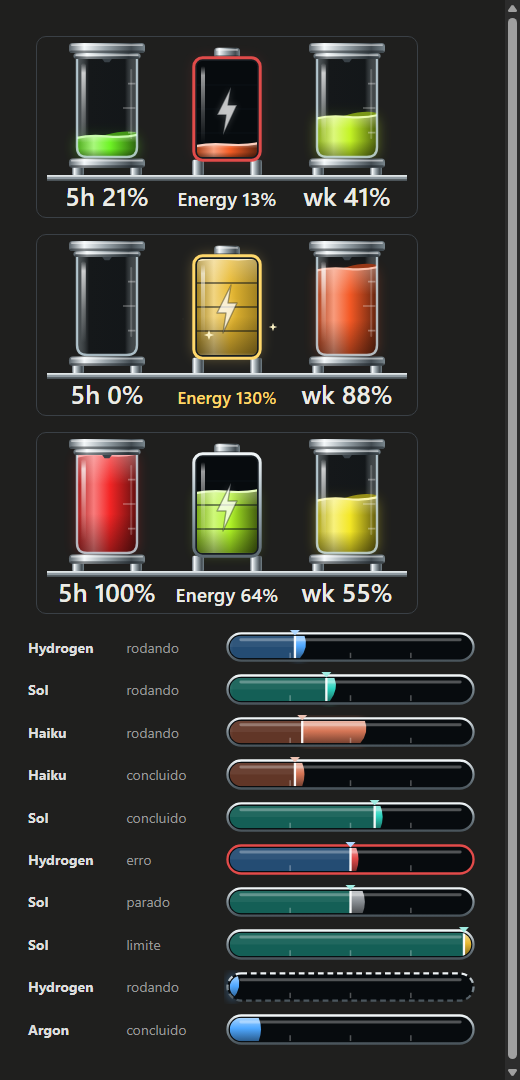
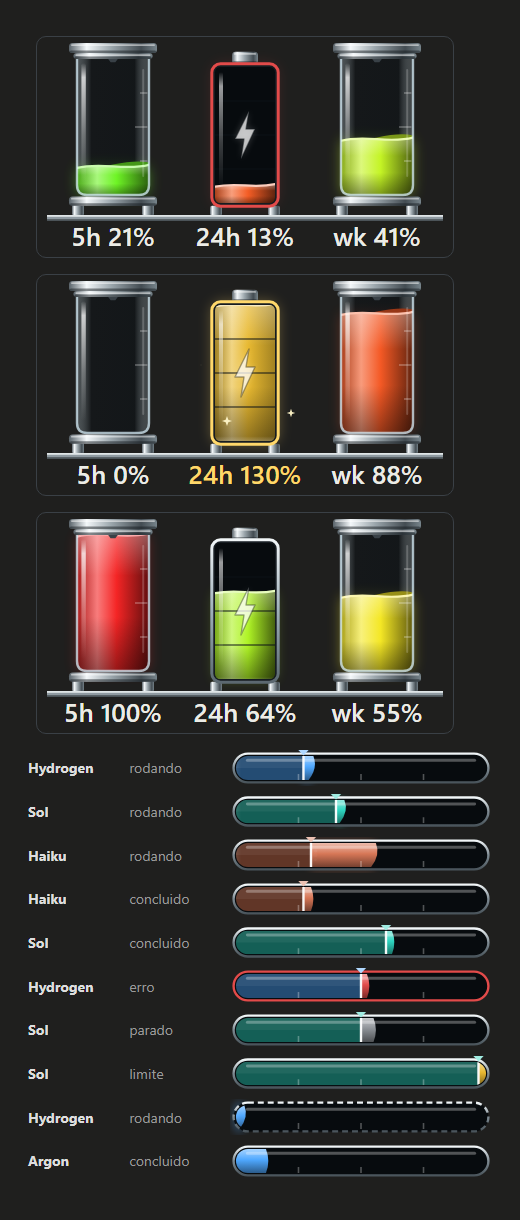
funmeter 0.8.3: layout as in the mock-up (mascot beside the agent rows, wider flasks, equal buttons)

diff --git a/plugins/funmeter/hooks/register.tsx b/plugins/funmeter/hooks/register.tsx
@@ -885,9 +885,9 @@ const VERDE_AGUA = '#2DD4BF'
 const COR_PROVEDOR = { Claude: LARANJA, Gemini: AZUL, Codex: VERDE_AGUA } as const
 
 // Os frascos dos limites do Claude (5h e semana) e a bateria do dia: mesmo tamanho, mesmo vidro e mesmo metal.
-const VT_W = 60
-const VT_H = 84
-const PRATELEIRA = 66 // onde os pés pousam
+const VT_W = 66
+const VT_H = 104
+const PRATELEIRA = 86 // onde os pés pousam
 
 // A cor do gel anda com o uso: verde vazio, passa pelo amarelo e pelo laranja e chega ao vermelho cheio.
 // Gira o matiz em vez de misturar RGB, que no meio do caminho daria um marrom apagado.
@@ -945,10 +945,10 @@ function tuboVertical(rotulo: string, usado: number): string {
   const pct = Math.max(0, Math.min(100, Math.round(Number.isFinite(usado) ? usado : 0)))
   const cor = corDoUso(pct)
   const xE = 15
-  const xD = 45
+  const xD = 51
   const cx = (xE + xD) / 2
   const yT = 8
-  const yB = 57
+  const yB = 76
   const R = 5
   const nivel = yB - (pct / 100) * (yB - yT)
   const altura = yB - nivel
@@ -1047,11 +1047,12 @@ function bateria(rotulo: string, restante: number): string {
   const dourada = numero > 100
   const fraca = carga <= BATERIA_FRACA
   const cor = dourada ? OURO : corDoUso(100 - carga)
-  const xE = 15
-  const xD = 45
+  const xE = 18
+  const xD = 48
   const cx = (xE + xD) / 2
-  const yT = 9
-  const yB = 57
+  const yT = 12
+  const yB = 80
+  const yR = (yT + yB) / 2 - 25 // o raio fica no meio do corpo
   const nivel = yB - (carga / 100) * (yB - yT)
   const crista = (a: number) => `M${xE} ${n1(nivel + a)}Q${xE + 6} ${n1(nivel + a - 1.2)} ${cx} ${n1(nivel)}T${xD} ${n1(nivel - a)}`
   const corpo = (a: number) => `${crista(a)}V${yB}H${xE}Z`
@@ -1065,7 +1066,7 @@ function bateria(rotulo: string, restante: number): string {
         `<path fill="none" stroke="${tom(cor, 0.7)}" stroke-width="1.1" stroke-linecap="round" d="${crista(0.6)}">${vaivem(crista, 0.6, 3)}</path>`
       : ''
   const celulas = [0.25, 0.5, 0.75].map(f => `M${xE} ${n1(yB - f * (yB - yT))}H${xD}`).join('')
-  const formaDoRaio = `M${cx + 2} ${yT + 13}L${cx - 5} ${yT + 27}H${cx - 0.5}L${cx - 2} ${yT + 37}L${cx + 5} ${yT + 22}H${cx + 0.5}Z`
+  const formaDoRaio = `M${cx + 2} ${yR + 13}L${cx - 5} ${yR + 27}H${cx - 0.5}L${cx - 2} ${yR + 37}L${cx + 5} ${yR + 22}H${cx + 0.5}Z`
   // O raio tem um clarão desfocado por trás que respira junto com ele; sem carga, sobra só o contorno vermelho.
   const raio =
     carga > 0
@@ -1110,7 +1111,7 @@ function bateria(rotulo: string, restante: number): string {
     `<clipPath id="c"><rect x="${xE}" y="${n1(nivel)}" width="${xD - xE}" height="${n1(yB - nivel)}"/></clipPath></defs>` +
     luz +
     pesEPrateleira(xE, xD, yB + 1.4) +
-    pecaDeMetal(cx - 6.5, 2.4, 13, yT - 4) +
+    pecaDeMetal(cx - 6.5, 4.4, 13, yT - 6) +
     `<rect x="${xE - 1.6}" y="${yT - 1.6}" width="${xD - xE + 3.2}" height="${yB - yT + 3.2}" rx="4.4" fill="#161c21" stroke="${contorno}" stroke-width="1.5">${pisca}</rect>` +
     `<rect x="${xE}" y="${yT}" width="${xD - xE}" height="${yB - yT}" rx="2.6" fill="#070b0e"/>` +
     `<g clip-path="url(#d)">${energia}<path d="${celulas}" stroke="#0b1116" stroke-opacity=".5" stroke-width="1.1" fill="none"/></g>` +
@@ -1400,6 +1401,10 @@ const PASTA_LIVE: Record<'Gemini' | 'Codex', string> = {
 const FERRAMENTA_JOB = /^mcp__(gemini__gemini_(start|run)|codex__codex_(start|tarefa))$/
 const BARRAS_MAX = 12
 const AGENTES_VISIVEIS = 4
+// O app dá a cada botão a largura do rótulo. Espaços que não quebram dos dois lados deixam os quatro quase iguais;
+// o espaço de largura zero nas pontas impede que alguém os apare.
+const largo = (rotulo: string, antes: number, depois = antes) => `\u200B${'\u00A0'.repeat(antes)}${rotulo}${'\u00A0'.repeat(depois)}\u200B`
+const RECUO_MASCOTE = 10 // colunas de texto: o tubo começa onde acaba o mascote
 const SOME_DEPOIS_MS = 10 * 60 * 1000 // a barra de um agente que acabou sai sozinha depois disto
 const RECENTE_MS = 3 * 60 * 1000 // uma subida do semanal logo depois do fim ainda é do agente que acabou
 const ESFORCOS = ['low', 'medium', 'high', 'xhigh', 'max']
@@ -2173,15 +2178,11 @@ export const register: Register = on => {
           <Button key="fechar-aviso" plain label="✕" onPress={() => (avisoParado ? fecharParado($) : fecharAviso($))} />
         </Box>
       )}
-      <Box flexDirection="row" gap={1} alignItems="center">
-        {Svg && mascote(modo).length <= SVG_MAX && (
-          <Box key="mascote" flexShrink={0}>
-            <Svg source={mascote(modo)} alt="Claude mascot" width={COLUNAS * CEL} height={LINHAS * CEL} />
-          </Box>
-        )}
-      {/* À direita do mascote: no meio o tubo, as medidas e uma linha por agente; à direita o painel com os frascos e os botões. */}
-      <Box key="corpo" flexDirection="row" columnGap={2} alignItems="center" flexGrow={1} flexShrink={1} minWidth={0}>
-      <Box key="medidas" flexDirection="column" flexGrow={1} flexShrink={1} minWidth={0}>
+      <Box flexDirection="row" columnGap={2} alignItems="center">
+      {/* À esquerda: em cima o tubo e as medidas, recuados da largura do mascote; embaixo o mascote ao lado das linhas dos agentes.
+          À direita o painel com os frascos e os botões. */}
+      <Box key="esquerda" flexDirection="column" flexGrow={1} flexShrink={1} minWidth={0} rowGap={1}>
+      <Box key="medidas" flexDirection="column" minWidth={0} marginLeft={Svg ? RECUO_MASCOTE : 0}>
         <Box flexDirection="row" gap={1} alignItems="center">
           {Svg ? (
             <Box key="tubo" flexGrow={1} flexShrink={1} minWidth={0}>
@@ -2241,10 +2242,18 @@ export const register: Register = on => {
                 </Text>
               )}
             </Box>
+      </Box>
+      <Box key="baixo" flexDirection="row" columnGap={1} alignItems="center">
+        {Svg && mascote(modo).length <= SVG_MAX && (
+          <Box key="mascote" flexShrink={0}>
+            <Svg source={mascote(modo)} alt="Claude mascot" width={COLUNAS * CEL} height={LINHAS * CEL} />
+          </Box>
+        )}
+        <Box key="ao-lado" flexDirection="column" flexGrow={1} flexShrink={1} minWidth={0}>
             {/* Uma linha por agente em uso (subagente do Claude, job do Gemini ou do Codex): nome do modelo, esforço, ação, tarefas,
                 o tubo do semanal (a base de quando começou, fosca, e o que ele gastou, vivo) e o ✕. Some sozinha um tempo depois de acabar. */}
             {abertas.length > 0 && (
-              <Box key="agentes" flexDirection="column" marginTop={1}>
+              <Box key="agentes" flexDirection="column">
                 {abertas.slice(0, AGENTES_VISIVEIS).map(b => {
                   const cor = COR_PROVEDOR[b.provedor]
                   const pct = b.gasto * 100
@@ -2282,6 +2291,8 @@ export const register: Register = on => {
               </Box>
             )}
             {usadas.length > 0 && <Text dimColor wrap="truncate-end">Skills: {listaSkills}</Text>}
+        </Box>
+      </Box>
       </Box>
       {/* O painel: os frascos dos limites e a bateria numa prateleira, e os botões em grade embaixo. */}
       <Box key="painel" flexDirection="column" alignItems="stretch" flexShrink={0} rowGap={1} {...(Svg ? { borderStyle: 'round', borderColor: MOLDURA, paddingX: 1 } : {})}>
@@ -2293,19 +2304,18 @@ export const register: Register = on => {
             </Box>
           )}
           <Box key="botoes-1" flexDirection="row" columnGap={1} justifyContent="space-between">
-            <Button key="mods" label="Mods" onPress={() => $.ui.open({ id: "mods", title: "Mods" })} />
-            <Button key="stats" label="Stats" onPress={() => void alternarStats($)} />
-            <Button key="clear" label="Clear" onPress={() => limpar($)} />
+            <Button key="mods" label={largo('Mods', 5)} onPress={() => $.ui.open({ id: "mods", title: "Mods" })} />
+            <Button key="stats" label={largo('Stats', 6, 5)} onPress={() => void alternarStats($)} />
           </Box>
-          <Box key="botoes-2" flexDirection="row" columnGap={1} justifyContent="center">
+          <Box key="botoes-2" flexDirection="row" columnGap={1} justifyContent="space-between">
+            <Button key="clear" label={largo('Clear', 5)} onPress={() => limpar($)} />
             <Button
               key="handoff"
               variant="primary"
-              label={gerando ? 'Writing handoff…' : 'Handoff'}
+              label={gerando ? 'Writing handoff…' : largo('Handoff', 3)}
               onPress={() => handoff($)}
             />
           </Box>
-      </Box>
       </Box>
       </Box>
       </Box>

diff --git a/CHANGELOG.md b/CHANGELOG.md
@@ -1,5 +1,10 @@
 # FunMeter changelog
 
+## 0.8.3 (2026-11-13)
+
+- Layout as in the mock-up: the tube and the measures on top, the mascot below them beside the agent rows, and the panel on the right.
+- The flasks and the battery are taller and further apart, on one shelf; the four buttons are back in a 2×2 grid, padded to the same width.
+
 ## 0.8.2 (2026-11-13)
 
 - Panel buttons: Mods, Stats and Clear spread across the panel, one under each flask, with Handoff centred below. The fixed-width columns are gone (the app does not stretch its buttons, so they left gaps).
